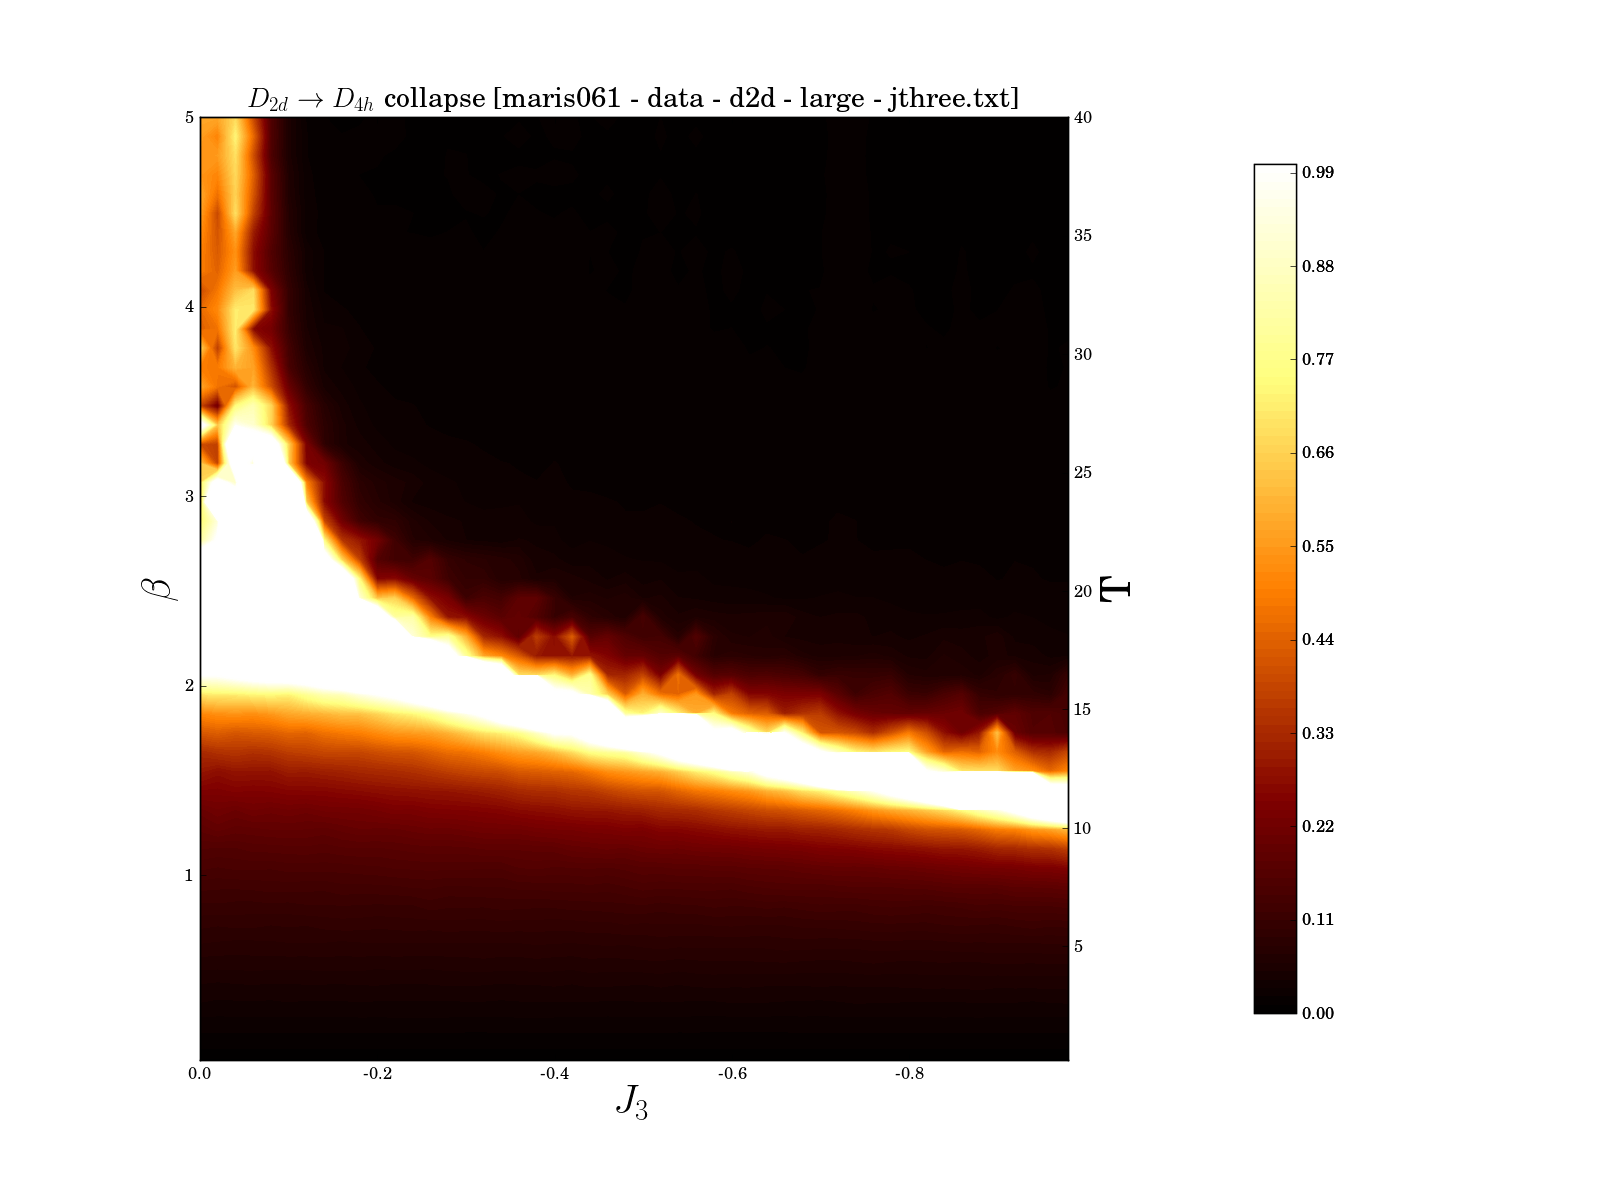
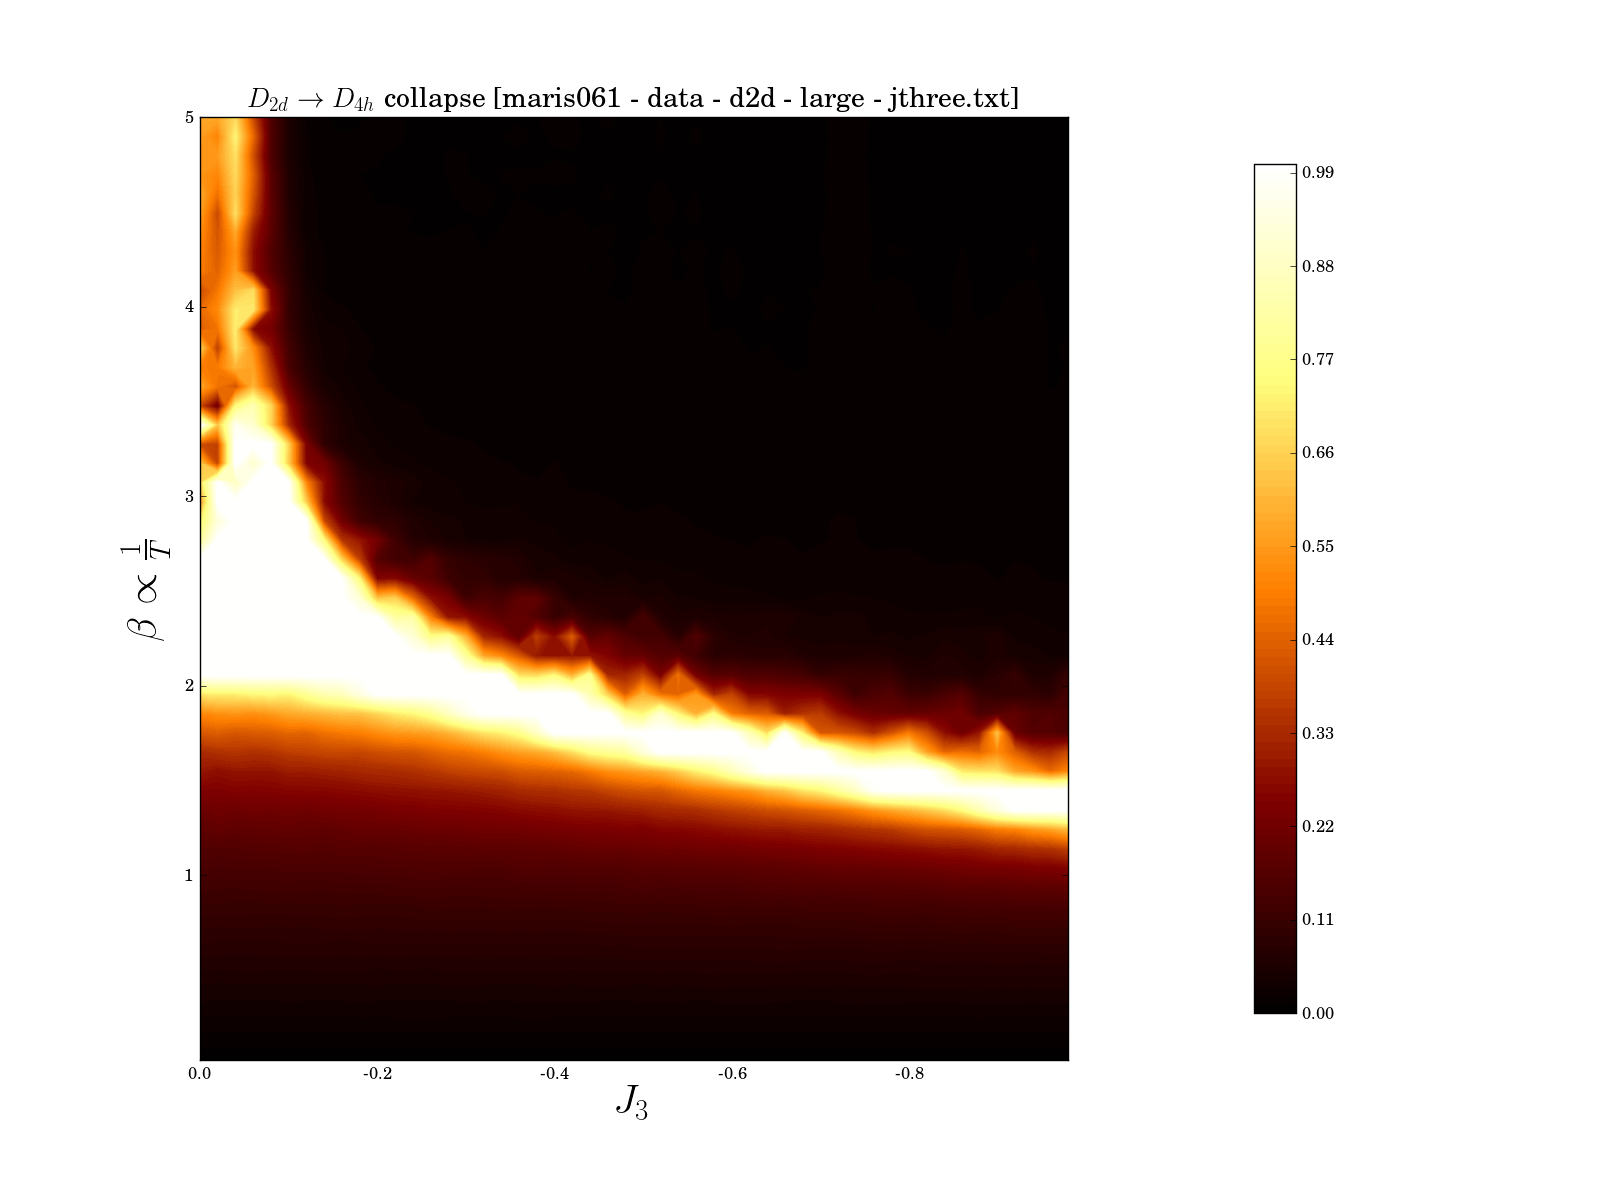
And here we have DATA. HOLY MOTHER OF DATA.

diff --git a/cluster_1/surf_plot.py b/cluster_1/surf_plot.py
@@ -126,27 +126,23 @@ if contourf == "no":
     
     plt.show() 
 else:
-    #z = np.clip(z, 0, clip_size)
+    z = np.clip(z, 0, clip_size)
  
     fig, ax = plt.subplots()
     
 
     cmap = plt.get_cmap('afmhot') 
 
-    levels = MaxNLocator(nbins=100).tick_values(z.min(), clip_size)
-    
-    
-    ax2 = ax.twinx()
-    ax2.contourf(y,np.reciprocal(x),z*0, cmap=cmap, levels=levels, alpha=0)
-    ax2.set_ylabel("T", fontsize=30)
+    levels = MaxNLocator(nbins=100).tick_values(z.min(), z.max()) 
     
     cf = ax.contourf(y, x, z, cmap=cmap, levels=levels)
     fig.colorbar(cf, ax=ax, shrink=0.9, pad=0.15)    
-    fig.colorbar(cf, ax=ax2, shrink=0.9, pad=0.15)    
 
     plt.rc('text', usetex=True)
     plt.rc('font', family='serif')
-     
+    
+    ax.set_axis_bgcolor('black'); 
+    
     ax.set_ylabel( xlabel ,fontsize=30);
     ax.set_xlabel( ylabel ,fontsize=30); 
     plt.title( title ,fontsize=20); 
